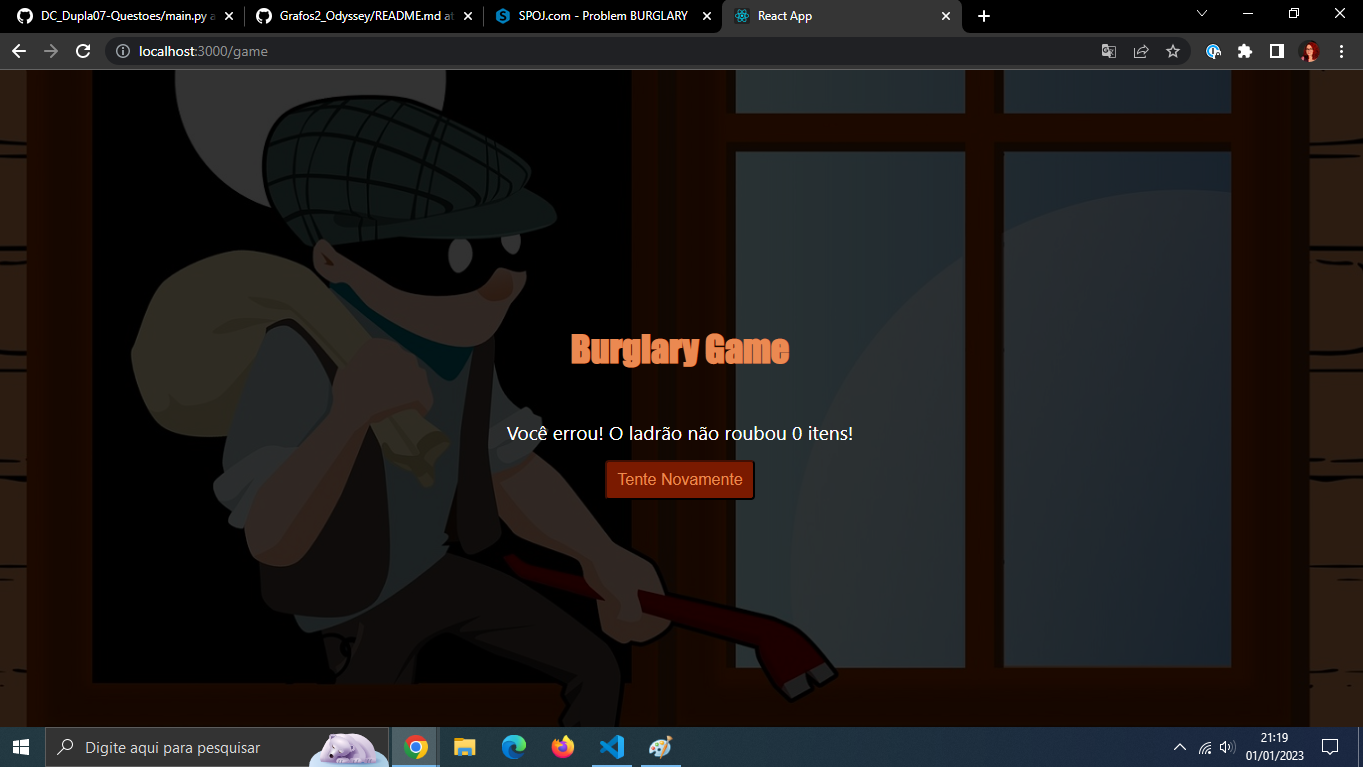
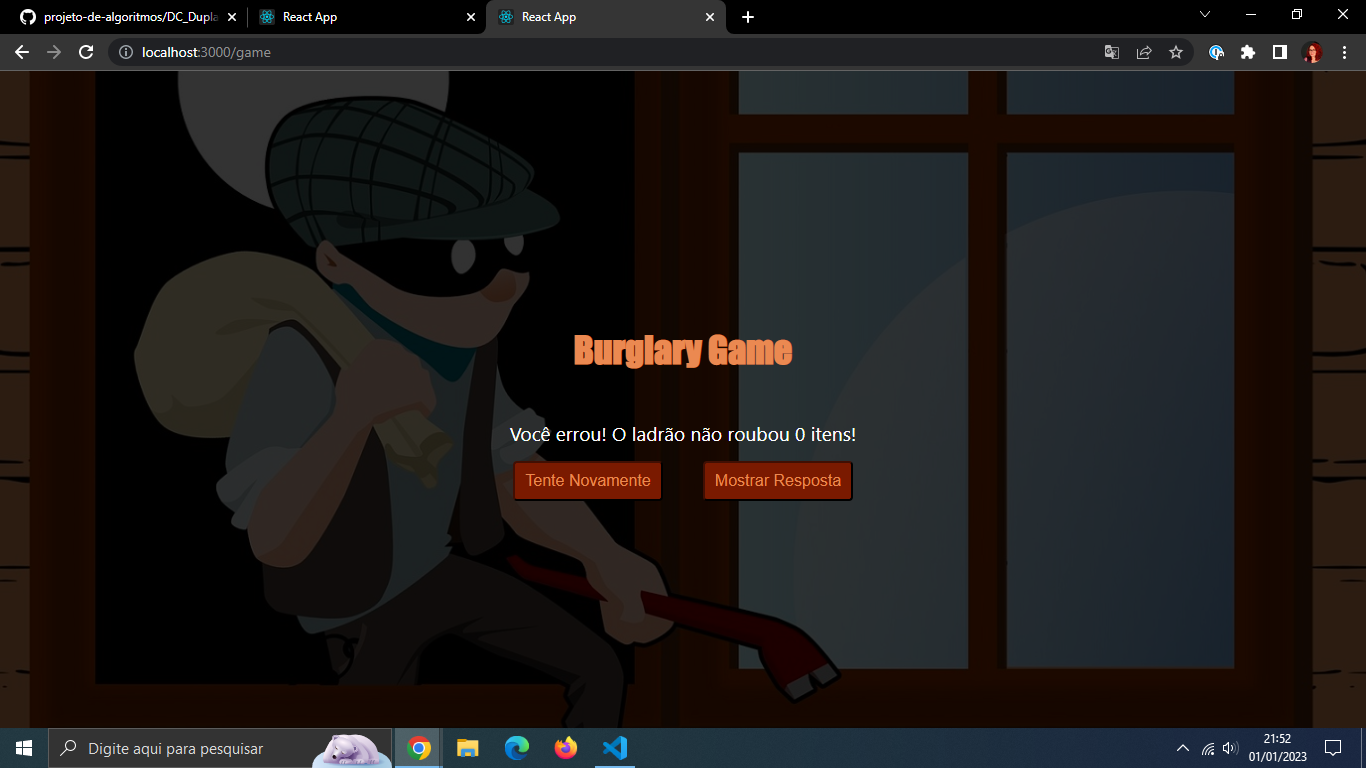
Trocando mensagens de acerto e tentar novamente

diff --git a/Burglary/front/src/pages/gamePage/index.js b/Burglary/front/src/pages/gamePage/index.js
@@ -79,6 +79,7 @@ function GamePage() {
 
     function handleGiveUp() {
         setGiveUp(true)
+        setTryAgain(false)
         setShowBurglary(false)
     }
 
@@ -141,13 +142,13 @@ function GamePage() {
                     {burglary.possiveisItens.length === 1 ? (
                         <>
                             <h2 className='begin-instruction'>
-                                Você acertou! O ladrão roubou {burglary.possiveisQuantidades} item!
+                                Você acertou! O ladrão roubou {burglary.possiveisQuantidades} objeto(s)!
                             </h2>
                             <h2 className='begin-instruction'>
                                 {burglary.possiveisQuantidades[0] === 0 ? 
                                 `Houve um erro na pesagem do armazém.` 
                                 : 
-                                `Sendo ele: ${burglary.possiveisItens} `}
+                                `Sendo ele(s): ${burglary.possiveisItens} `}
                             </h2>
                         </>
                     ) : (
@@ -178,13 +179,13 @@ function GamePage() {
                     {burglary.possiveisItens.length === 1 ? (
                         <>
                             <h2 className='begin-instruction'>
-                                O ladrão roubou {burglary.possiveisQuantidades} item!
+                                O ladrão roubou {burglary.possiveisQuantidades} objeto(s)!
                             </h2>
                             <h2 className='begin-instruction'>
                                 {burglary.possiveisQuantidades[0] === 0 ? 
                                 `Houve um erro na pesagem do armazém.` 
                                 : 
-                                `Sendo ele: ${burglary.possiveisItens} `}
+                                `Sendo ele(s): ${burglary.possiveisItens} `}
                             </h2>
                         </>
                     ) : (
@@ -223,7 +224,10 @@ function GamePage() {
                             Você errou! O ladrão não roubou 0 itens!
                         </h2>
                     }
-                    <button className="button-try-again" onClick={handleTryAgain}>Tente Novamente</button>
+                    <div className='button-customize'>
+                        <button className="button-try-again" onClick={handleTryAgain}>Tente Novamente</button>
+                        <button className="button-try-again" onClick={handleGiveUp}>Mostrar Resposta</button>
+                    </div>
                 </div>
             )}
 
